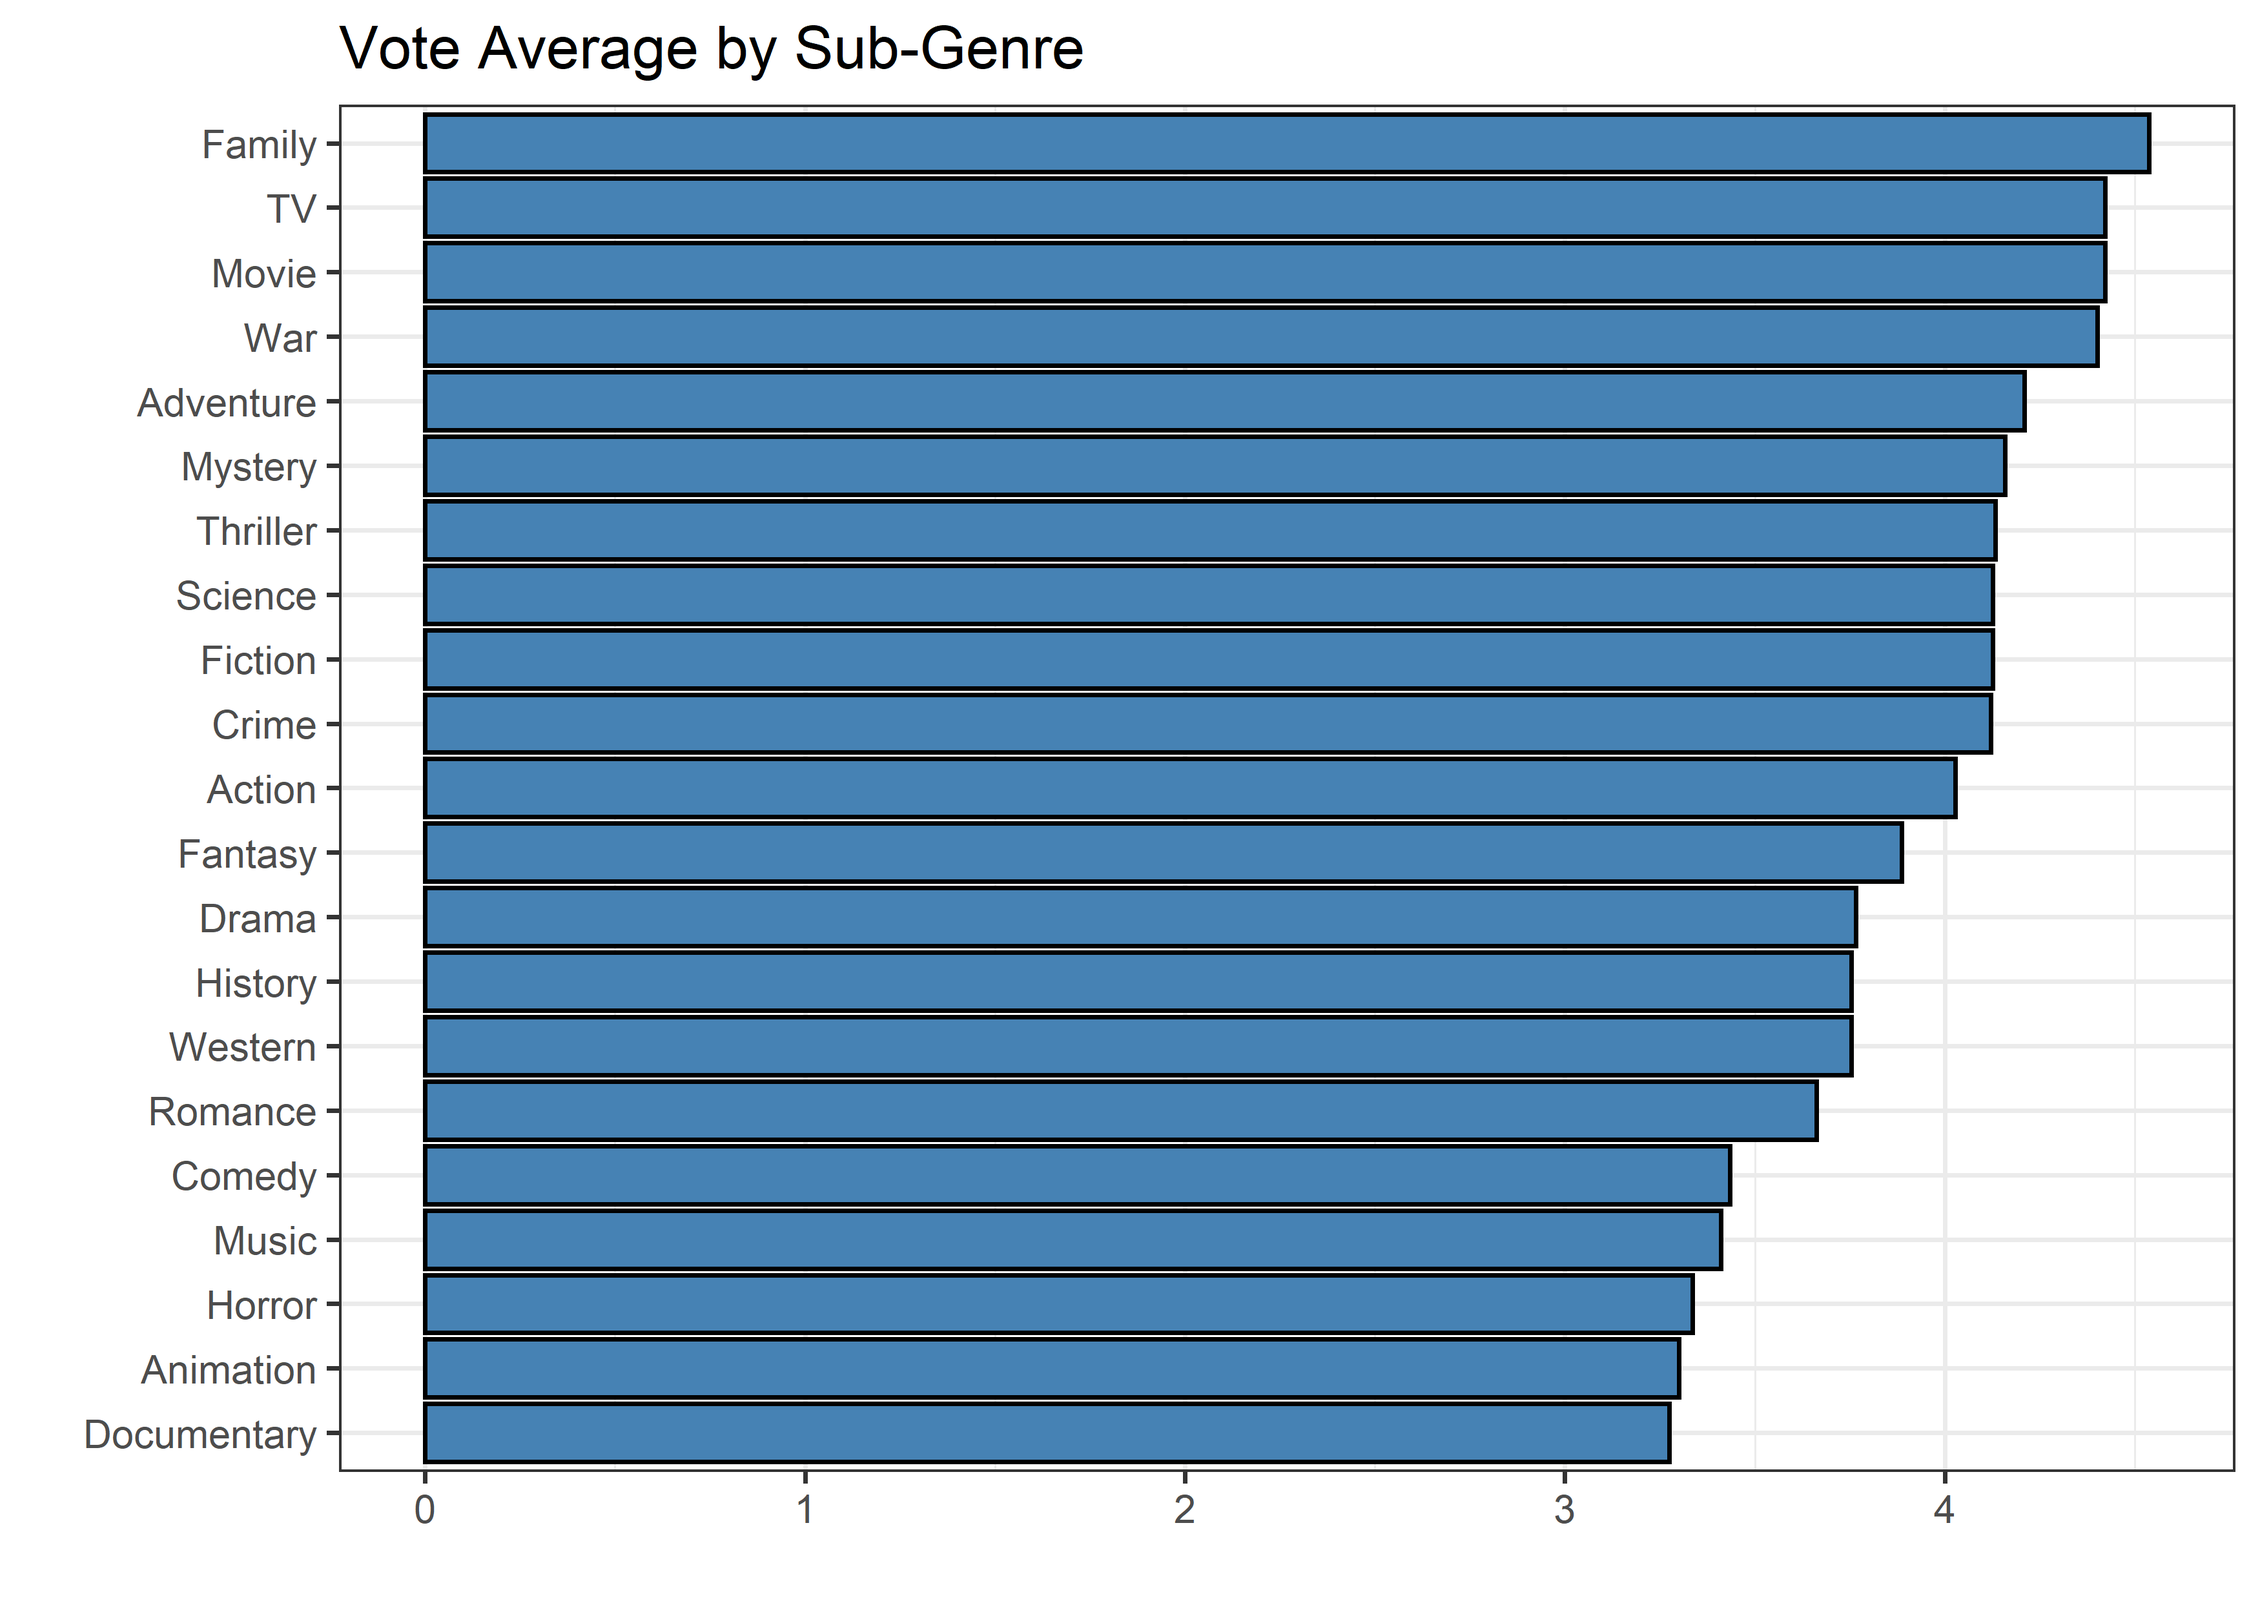
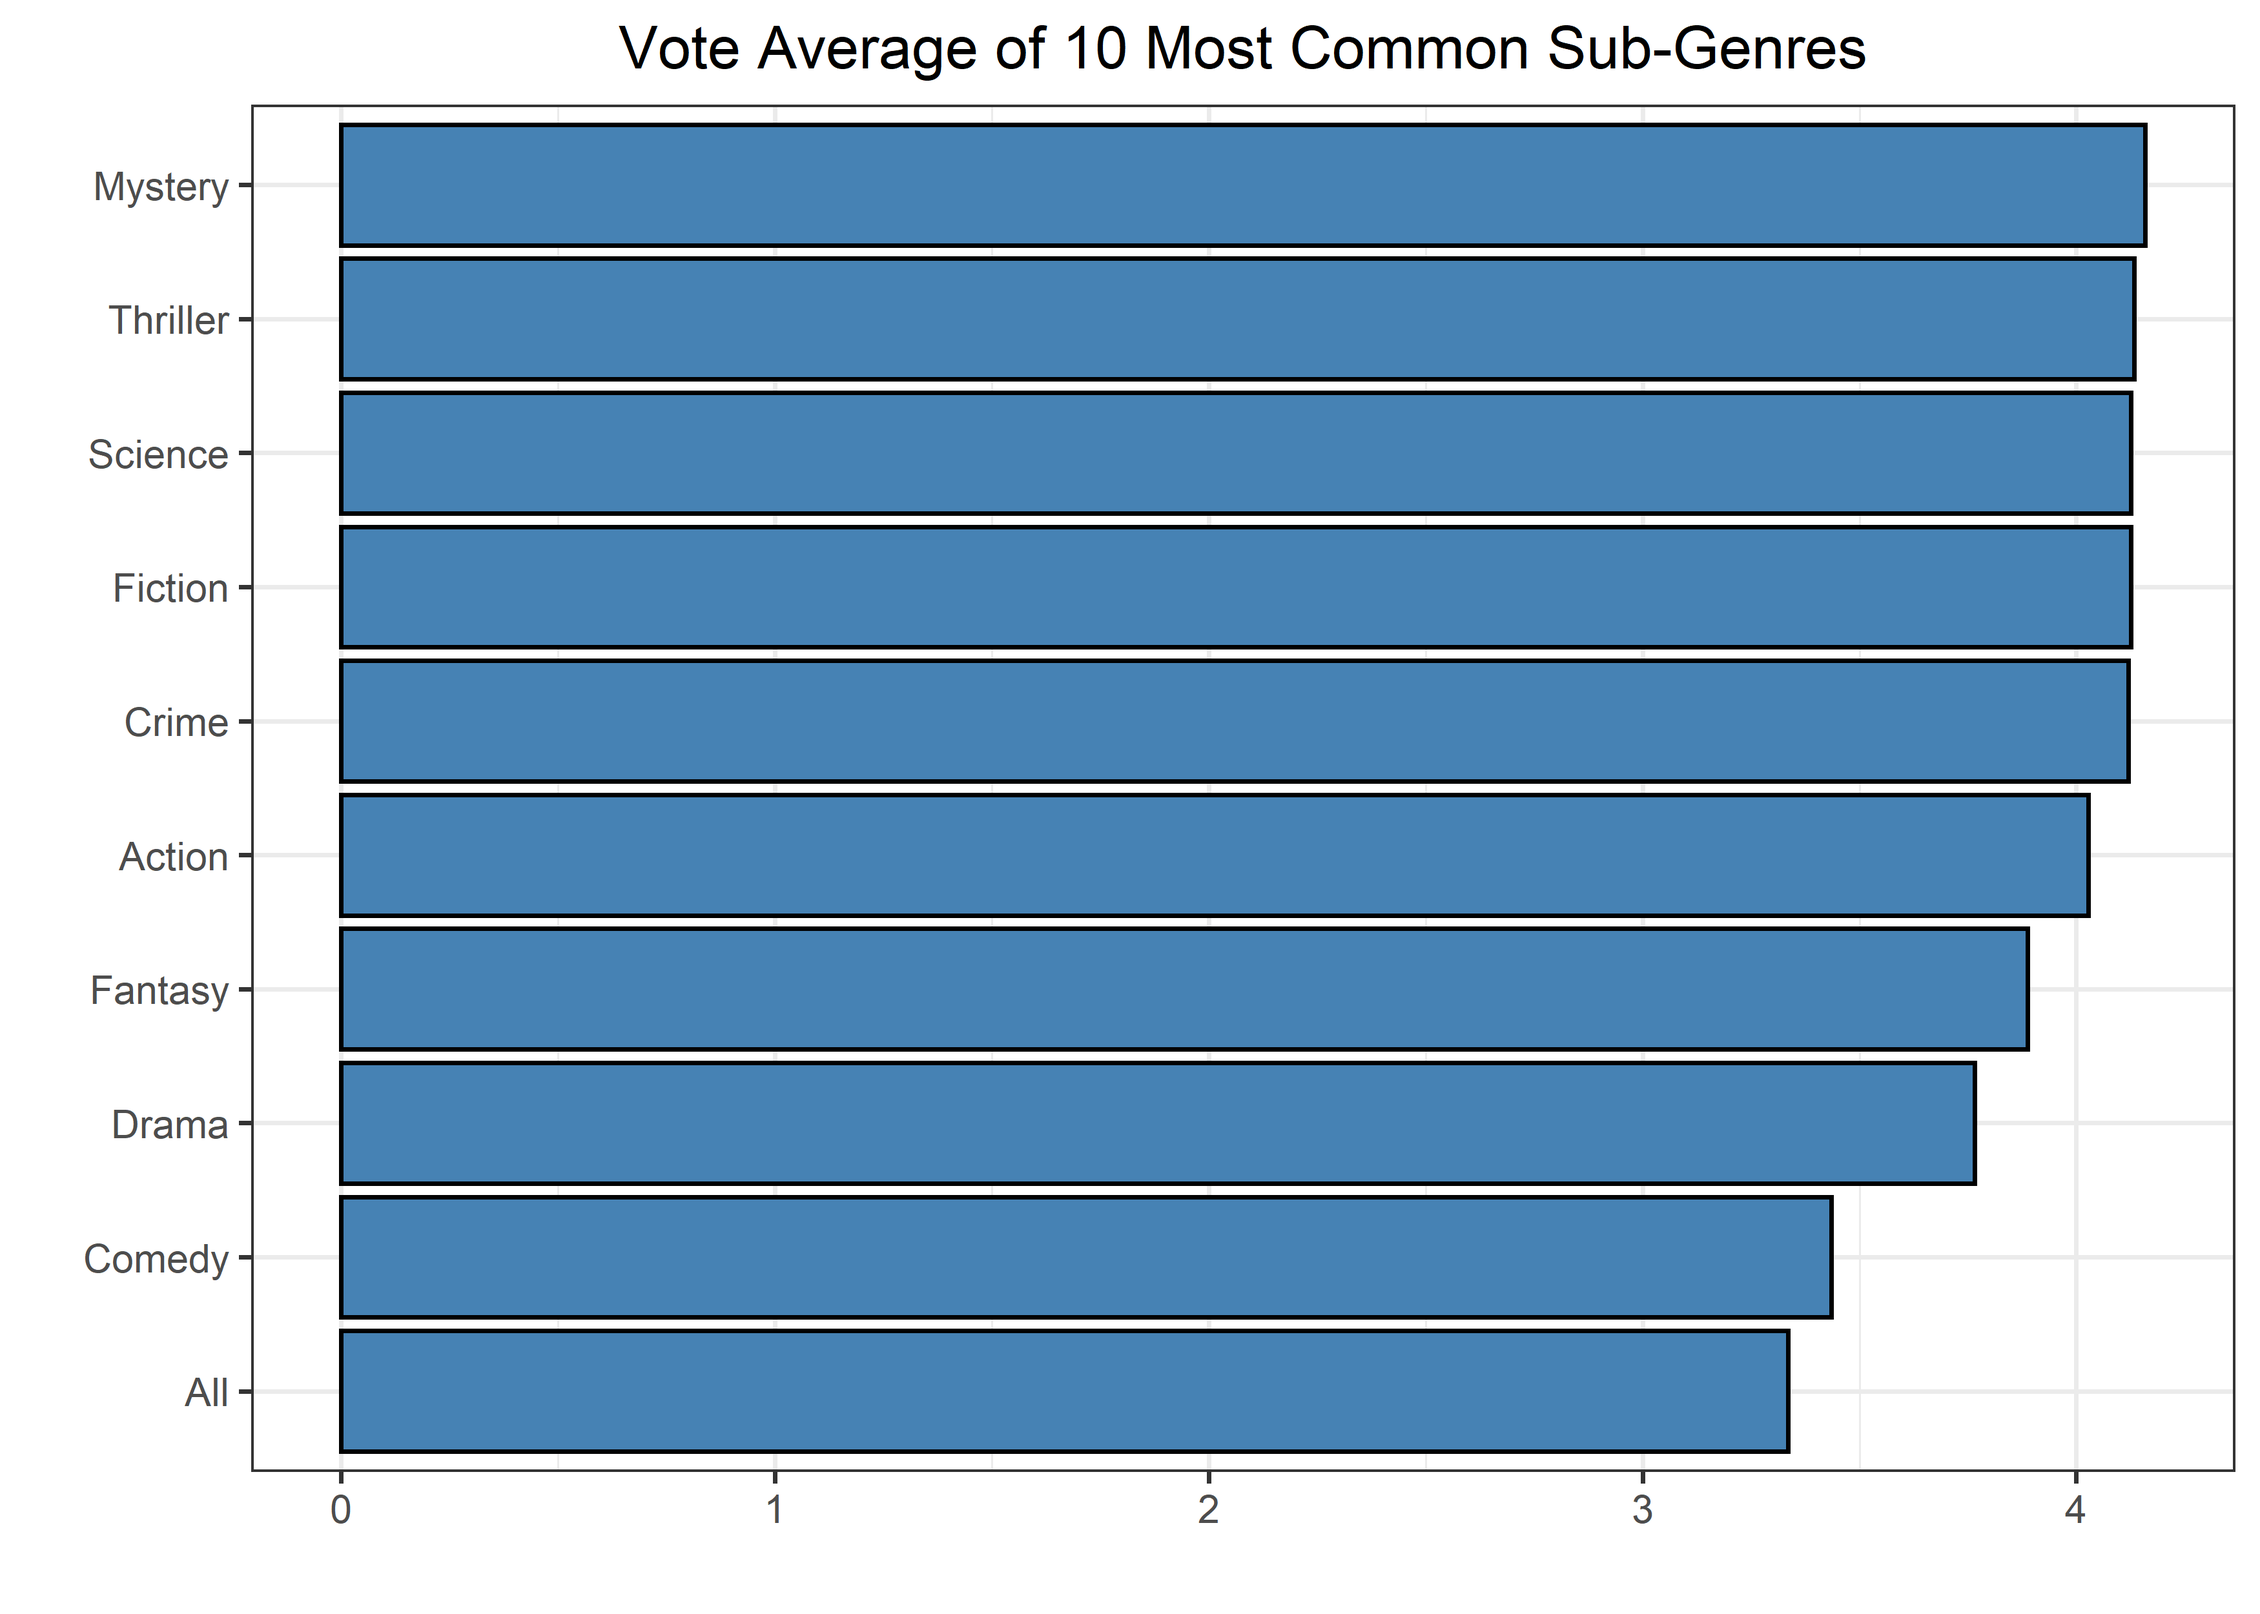
theme update and 10 most common subgenres

Changed region(s): [[0.0311, 0.0, 0.9654, 0.936]]

diff --git a/11-01-22/Horror-Movies.md b/11-01-22/Horror-Movies.md
@@ -32,3 +32,17 @@ horror_movies %>%
 ```
 
 ![](Horror-Movies_files/figure-gfm/unnamed-chunk-2-1.png)<!-- -->
+
+``` r
+horror_movies %>% 
+  separate_rows(genre_names) %>% 
+  mutate(genre_names = fct_lump(genre_names, 10),
+         genre_names = ifelse(genre_names == "Horror", "All", as.character(genre_names))) %>% 
+  filter(genre_names != "Other") %>% 
+  group_by(genre_names) %>% 
+  summarize(avg = mean(vote_average)) %>% 
+  ggplot(aes(avg, fct_reorder(genre_names, avg))) + geom_col(fill = "steelblue", color = "black") +
+  labs(y = "", x = "", title = "Vote Average of 10 Most Common Sub-Genres")
+```
+
+![](Horror-Movies_files/figure-gfm/unnamed-chunk-3-1.png)<!-- -->
